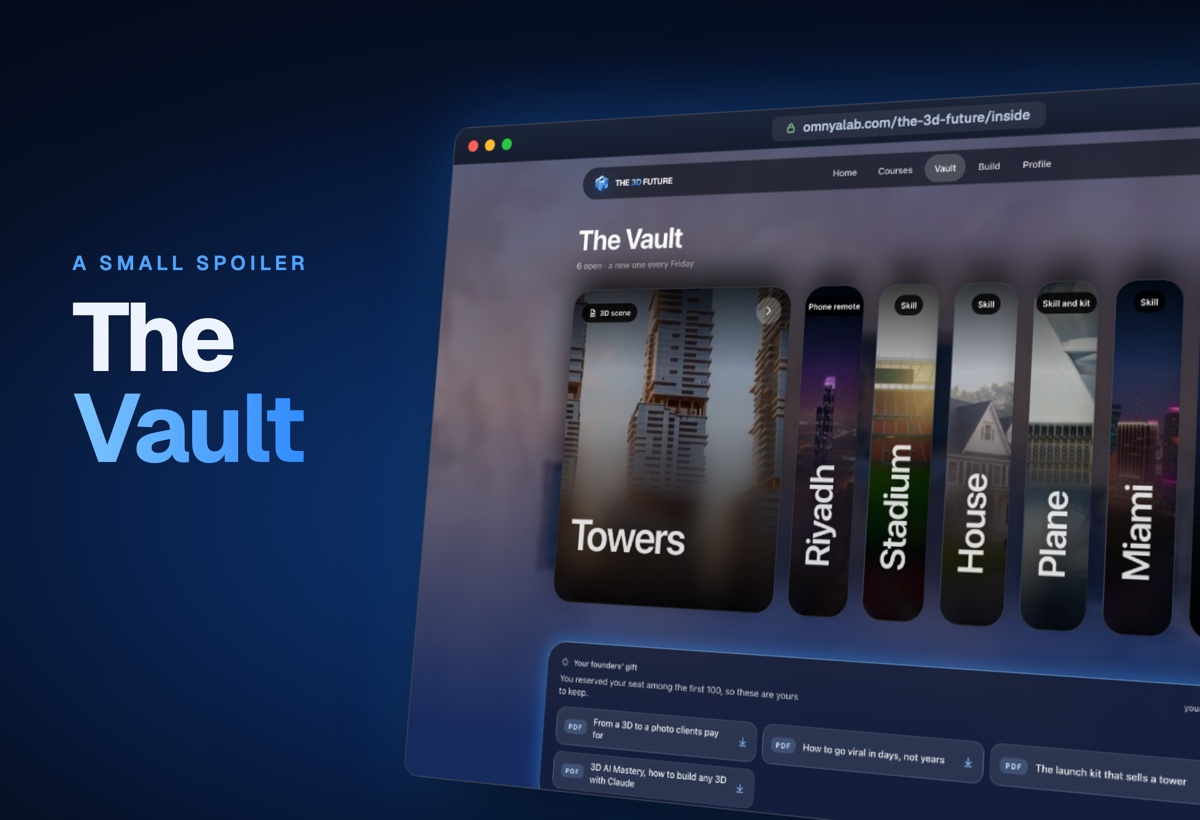
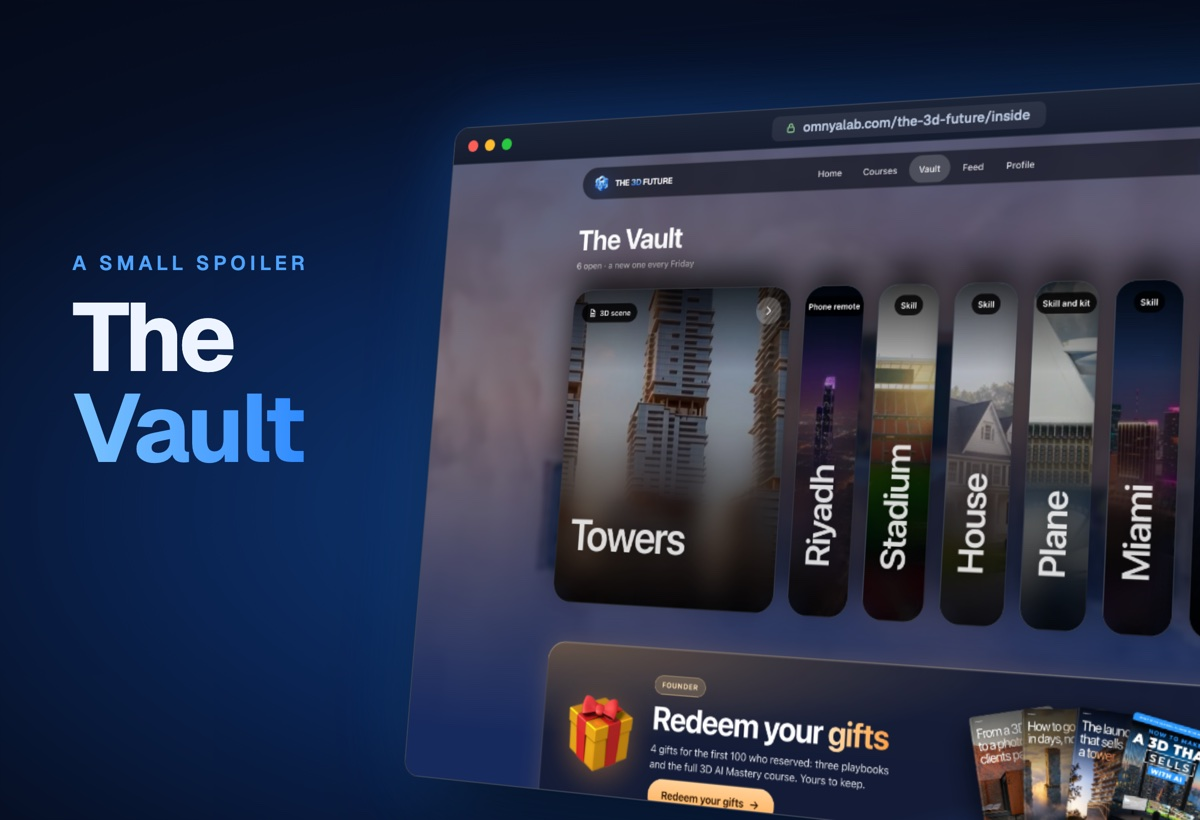
THE 3D FUTURE launch mails v2 (held until Nico's go): SG «Your gift» in Friday's two (e3b, e3), SV and SP redone from the new members' page (Feed in the menu, the gift card), the Feed in the lists of what's inside (e4a, e4, e7)

Changed region(s): [[0.4317, 0.7622, 1.0, 1.0], [0.6783, 0.1829, 0.8942, 0.2439]]

diff --git a/api/_lib/launch.js b/api/_lib/launch.js
@@ -142,7 +142,7 @@ Nico`,
   },
   e3b: {
     subject: "Last night to get the founders' gift",
-    img: { src: '/club/mail/gifts.jpg', alt: "The founders' gift for the first 100: our three playbooks and the full 3D AI Mastery course" },
+    img: { src: '/club/mail/sg-your-gift.jpg', alt: "A small spoiler: the founders' gifts page inside the club, our three playbooks and the full 3D AI Mastery course" },
     body: `Hey {name},
 
 Tomorrow at 9:00 (Rome) THE 3D FUTURE opens, so tonight is the last night to reserve your seat with the founders' gift. After 9:00 the gift is gone for good, even for someone who joins a minute later.
@@ -158,7 +158,7 @@ Nico`,
   },
   e3: {
     subject: "You're first tomorrow",
-    img: { src: '/club/mail/gifts.jpg', alt: "The founders' gift for the first 100: our three playbooks and the full 3D AI Mastery course" },
+    img: { src: '/club/mail/sg-your-gift.jpg', alt: "A small spoiler: the founders' gifts page inside the club, our three playbooks and the full 3D AI Mastery course" },
     body: `Hey {name},
 
 Tomorrow at 9:00 (Rome) the doors of THE 3D FUTURE open, and because you're on the list you get in nine hours before everyone else. There's one thing the list can't do for you, though: the founders' gift goes only to people who reserve their seat with a card before 9:00, and after that it's gone.
@@ -179,7 +179,7 @@ THE 3D FUTURE is open, and you're on the list, so you're in nine hours before ev
 
 {img}
 
-The moment you join, your page opens with the course where you build your own tower step by step, the Vault with six builds from our reels and their files, and every Full guide, and a new course comes in every Friday. The founders' price lasts only until Friday 4 December, then it goes up to €19 and the founders' round doesn't open again:
+The moment you join, your page opens with the course where you build your own tower step by step, the Vault with six builds from our reels and their files, every Full guide and the Feed, where everyone posts their builds and I comment on them, and a new course comes in every Friday. The founders' price lasts only until Friday 4 December, then it goes up to €19 and the founders' round doesn't open again:
 {link}
 
 Nico`,
@@ -193,7 +193,7 @@ THE 3D FUTURE is open, and until Friday you get in at the founders' price: €9 
 
 {img}
 
-The moment you join you start the first course, 11 short steps where you see every click and build your own tower, the kind where buyers choose their floor. Then a new course comes every Friday with the build of the week, next to six builds from our reels with their files, prompts and Claude skills, every Full guide and my comments on your builds every Monday.
+The moment you join you start the first course, 11 short steps where you see every click and build your own tower, the kind where buyers choose their floor. Then a new course comes every Friday with the build of the week, next to six builds from our reels with their files, prompts and Claude skills, every Full guide and the Feed, where everyone in the club posts their builds and I look at every single one.
 
 On Friday 4 December at 23:59 (Rome) the founders' price closes and it goes up to €19 for good. And if you follow the 11 steps, send me your build and it still isn't live within 7 days, your first month is on us:
 {link}
@@ -241,7 +241,7 @@ Tonight at 23:59 (Rome) the founders' price of THE 3D FUTURE closes, and from to
 
 {img}
 
-If you join today you get in at €9 a month, locked for as long as you stay: the course where you build your own tower step by step, a new course every Friday, the Vault with the files of our builds and my comments on your work every Monday.
+If you join today you get in at €9 a month, locked for as long as you stay: the course where you build your own tower step by step, a new course every Friday, the Vault with the files of our builds and the Feed, where everyone posts their builds and I comment on them.
 
 It takes a minute and you can cancel in one tap whenever you want, so don't let it slip:
 {link}
